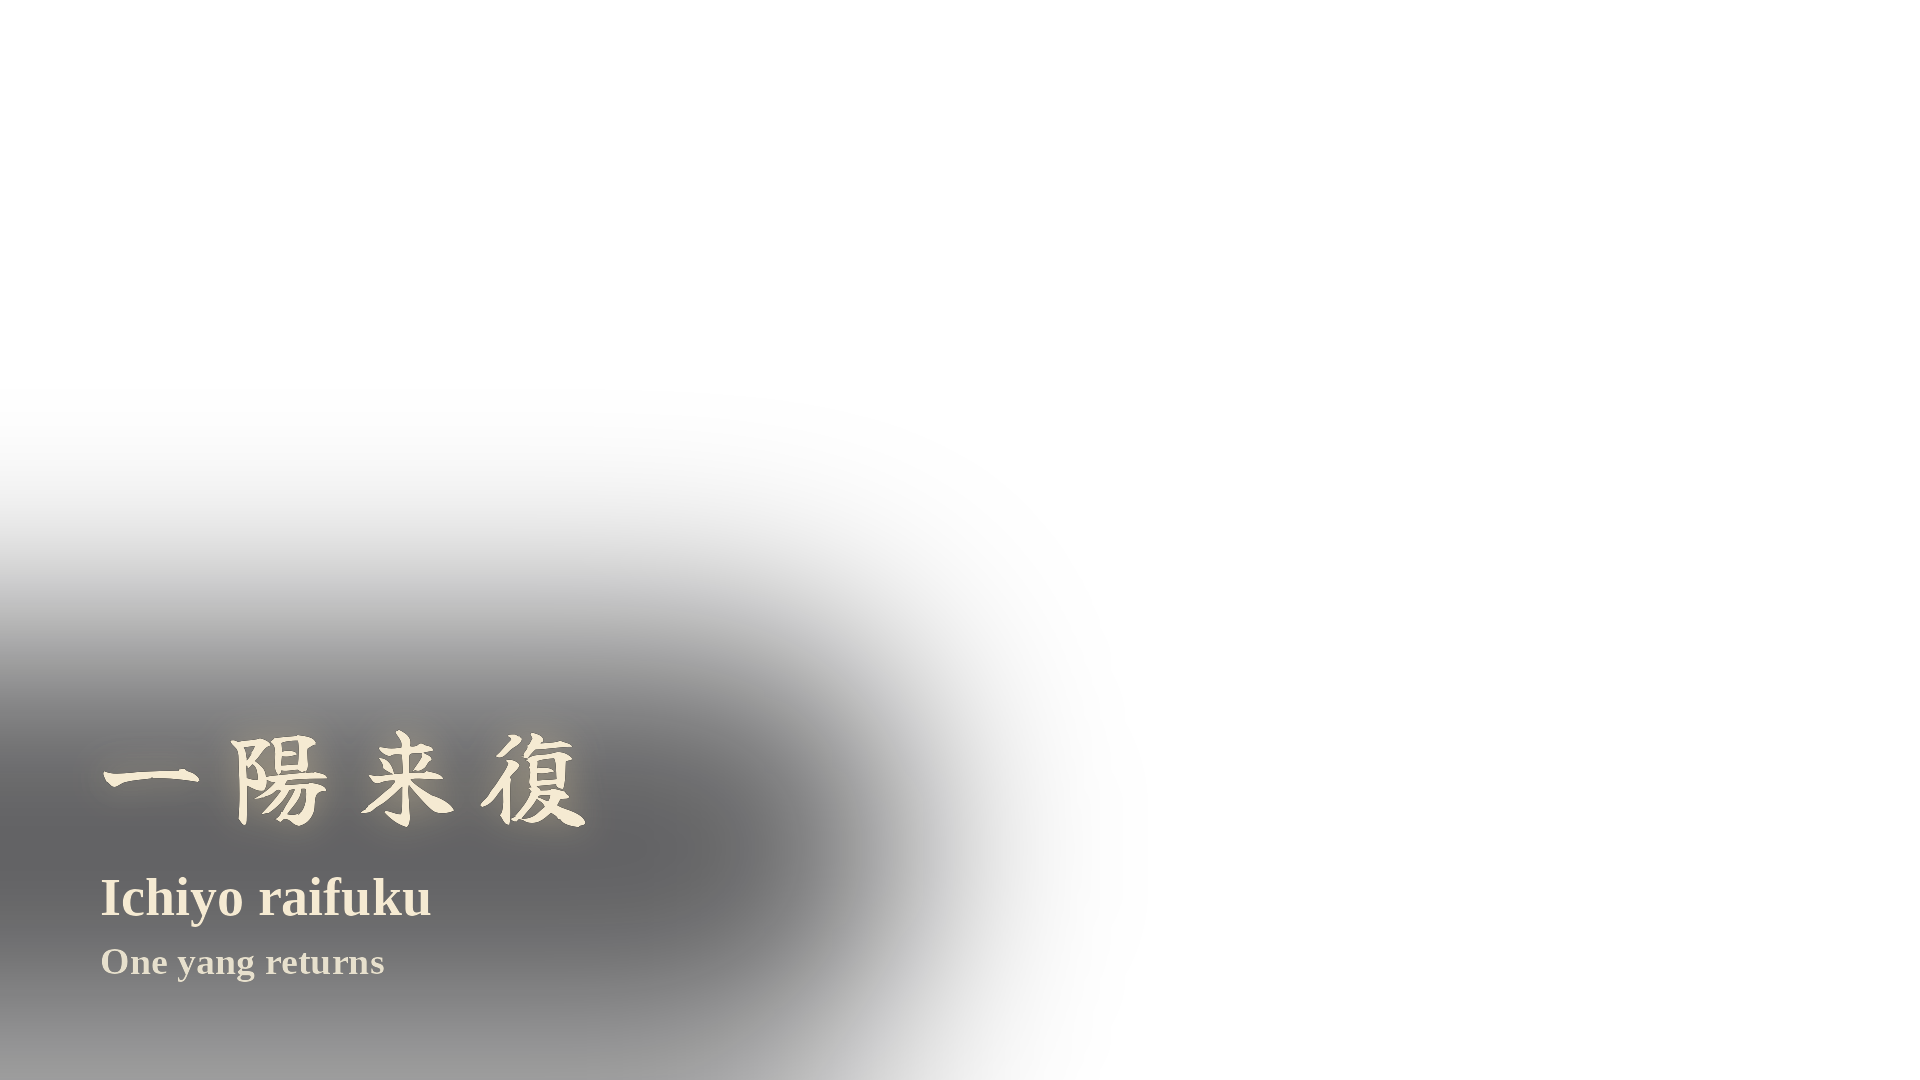
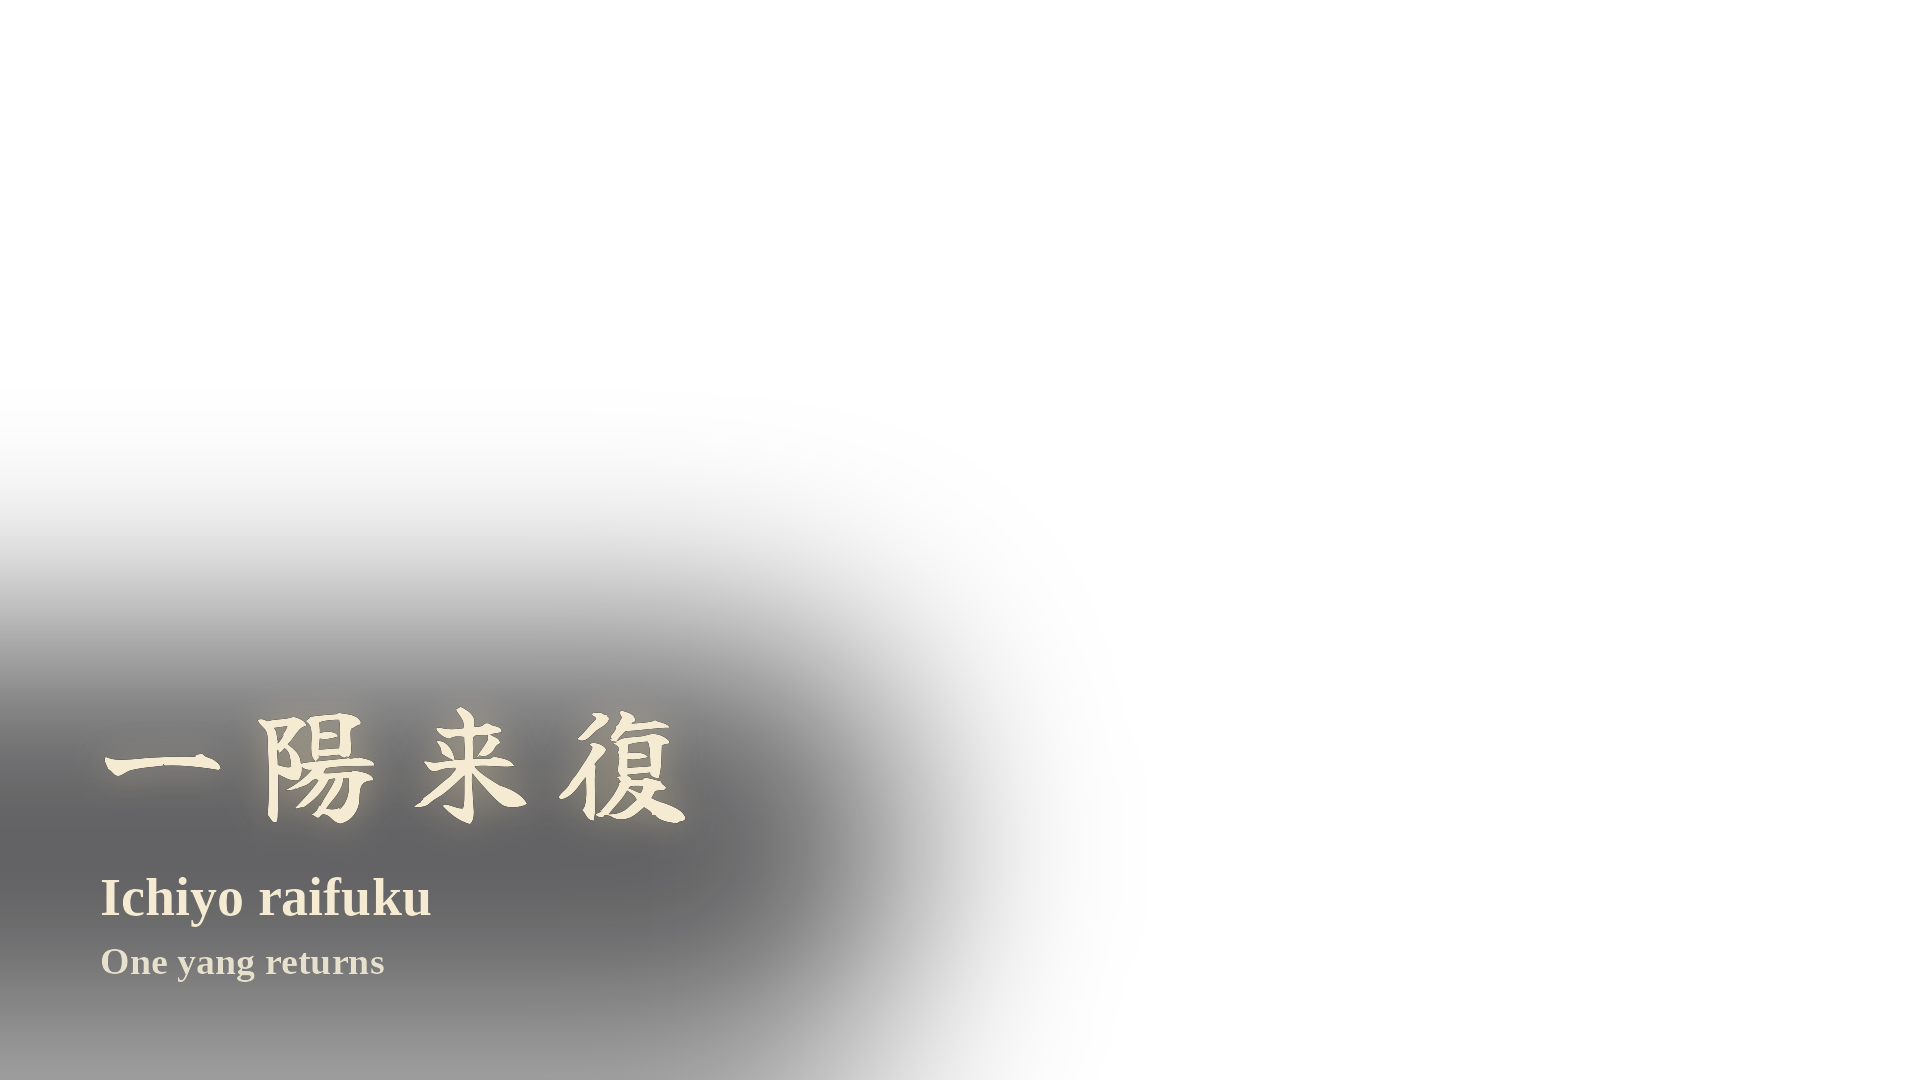
SEIRYU wisdom overlay: enlarge kanji 20% per user request

Changed region(s): [[0.0312, 0.6417, 0.375, 0.7639]]

diff --git a/stillwave/assets/seiryu-wisdom-overlay.py b/stillwave/assets/seiryu-wisdom-overlay.py
@@ -30,11 +30,11 @@ s = Image.new("RGBA", (W, H), (0, 0, 0, 0))
 ImageDraw.Draw(s).rounded_rectangle((-200, 636, 900, 1060), radius=170, fill=(6, 6, 9, 165))
 img.alpha_composite(s.filter(ImageFilter.GaussianBlur(100)))
 
-# 一陽来復 — brush kanji (4 chars), cream, faint warm glow
-f = ImageFont.truetype(KANJI, 108)
+# 一陽来復 — brush kanji (4 chars), cream, faint warm glow (size +20% per user request)
+f = ImageFont.truetype(KANJI, 130)
 mask = Image.new("L", (W, H), 0)
 md = ImageDraw.Draw(mask)
-chars, pitch, y0 = ["一", "陽", "来", "復"], 128, 692
+chars, pitch, y0 = ["一", "陽", "来", "復"], 154, 662
 l0, _, r0, _ = f.getbbox(chars[0])
 c0 = X + (r0 - l0) / 2
 for i, ch in enumerate(chars):
